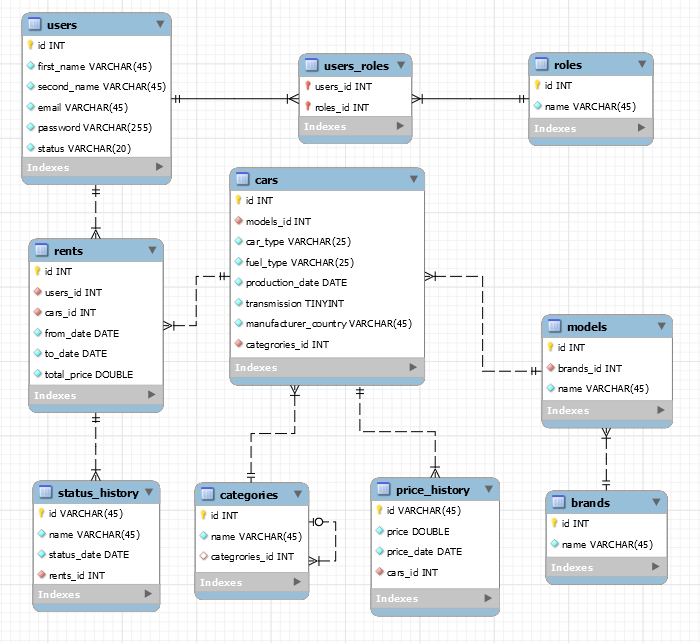
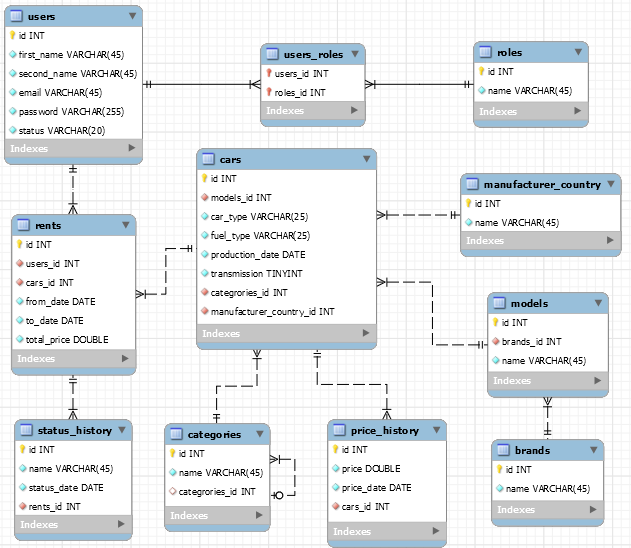
database update again new table

diff --git a/backend/domain/src/main/java/com/velheor/carrental/models/Car.java b/backend/domain/src/main/java/com/velheor/carrental/models/Car.java
@@ -22,21 +22,22 @@ import javax.persistence.OneToMany;
 import javax.persistence.Table;
 
 @NamedEntityGraphs({
-  @NamedEntityGraph(
-      name = "carWithModelAndCategoryAndPriceHistoryAndBrand",
-      attributeNodes = {
-        @NamedAttributeNode(value = "model", subgraph = "modelWithBrand"),
-        @NamedAttributeNode("category"),
-        @NamedAttributeNode("priceHistoryList")
-      },
-      subgraphs = {
-        @NamedSubgraph(
-            name = "modelWithBrand",
-            attributeNodes = {@NamedAttributeNode(value = "brand")})
-      }),
-  @NamedEntityGraph(
-      name = "carWithRents",
-      attributeNodes = {@NamedAttributeNode(value = "rents")})
+    @NamedEntityGraph(
+        name = "carWithModelCategoryPriceHistoryCountryBrand",
+        attributeNodes = {
+            @NamedAttributeNode(value = "model", subgraph = "modelWithBrand"),
+            @NamedAttributeNode("category"),
+            @NamedAttributeNode("priceHistoryList"),
+            @NamedAttributeNode("manufacturerCountry")
+        },
+        subgraphs = {
+            @NamedSubgraph(
+                name = "modelWithBrand",
+                attributeNodes = {@NamedAttributeNode(value = "brand")})
+        }),
+    @NamedEntityGraph(
+        name = "carWithRents",
+        attributeNodes = {@NamedAttributeNode(value = "rents")})
 })
 @Entity
 @Table(name = "cars")
@@ -64,6 +65,10 @@ public class Car implements Serializable {
   private Boolean transmission;
 
   @ManyToOne(fetch = FetchType.LAZY)
+  @JoinColumn(name = "manufacturer_country_id", referencedColumnName = "id", nullable = false)
+  private ManufacturerCountry manufacturerCountry;
+
+  @ManyToOne(fetch = FetchType.LAZY)
   @JoinColumn(name = "models_id", referencedColumnName = "id", nullable = false)
   private Model model;
 
@@ -82,7 +87,8 @@ public class Car implements Serializable {
   @OneToMany(mappedBy = "car")
   private List<Rent> rents;
 
-  public Car() {}
+  public Car() {
+  }
 
   public Integer getId() {
     return id;
@@ -124,6 +130,14 @@ public class Car implements Serializable {
     this.transmission = transmission;
   }
 
+  public ManufacturerCountry getManufacturerCountry() {
+    return manufacturerCountry;
+  }
+
+  public void setManufacturerCountry(ManufacturerCountry manufacturerCountry) {
+    this.manufacturerCountry = manufacturerCountry;
+  }
+
   public Model getModel() {
     return model;
   }
@@ -140,11 +154,12 @@ public class Car implements Serializable {
     this.category = category;
   }
 
-  public List<PriceHistory> getPriceHistories() {
+  public List<PriceHistory> getPriceHistoryList() {
     return priceHistoryList;
   }
 
-  public void setPriceHistories(List<PriceHistory> priceHistoryList) {
+  public void setPriceHistoryList(
+      List<PriceHistory> priceHistoryList) {
     this.priceHistoryList = priceHistoryList;
   }
 
@@ -165,28 +180,22 @@ public class Car implements Serializable {
       return false;
     }
     Car car = (Car) o;
-    return Objects.equals(getId(), car.getId())
-        && Objects.equals(getCarType(), car.getCarType())
-        && getFuelType() == car.getFuelType()
-        && Objects.equals(getProductionDate(), car.getProductionDate())
-        && Objects.equals(getTransmission(), car.getTransmission())
-        && Objects.equals(getModel(), car.getModel())
-        && Objects.equals(getCategory(), car.getCategory())
-        && Objects.equals(priceHistoryList, car.priceHistoryList)
-        && Objects.equals(getRents(), car.getRents());
+    return Objects.equals(getId(), car.getId()) &&
+        Objects.equals(getCarType(), car.getCarType()) &&
+        getFuelType() == car.getFuelType() &&
+        Objects.equals(getProductionDate(), car.getProductionDate()) &&
+        Objects.equals(getTransmission(), car.getTransmission()) &&
+        Objects.equals(getManufacturerCountry(), car.getManufacturerCountry()) &&
+        Objects.equals(getModel(), car.getModel()) &&
+        Objects.equals(getCategory(), car.getCategory()) &&
+        Objects.equals(getPriceHistoryList(), car.getPriceHistoryList()) &&
+        Objects.equals(getRents(), car.getRents());
   }
 
   @Override
   public int hashCode() {
-    return Objects.hash(
-        getId(),
-        getCarType(),
-        getFuelType(),
-        getProductionDate(),
-        getTransmission(),
-        getModel(),
-        getCategory(),
-        priceHistoryList,
-        getRents());
+    return Objects
+        .hash(getId(), getCarType(), getFuelType(), getProductionDate(), getTransmission(),
+            getManufacturerCountry(), getModel(), getCategory(), getPriceHistoryList(), getRents());
   }
 }

diff --git a/backend/domain/src/main/java/com/velheor/carrental/models/ManufacturerCountry.java b/backend/domain/src/main/java/com/velheor/carrental/models/ManufacturerCountry.java
@@ -1,0 +1,68 @@
+package com.velheor.carrental.models;
+
+import java.util.List;
+import java.util.Objects;
+import javax.persistence.Basic;
+import javax.persistence.Column;
+import javax.persistence.Id;
+import javax.persistence.OneToMany;
+
+public class ManufacturerCountry {
+
+  @Id
+  @Column(name = "id", nullable = false)
+  private Integer id;
+
+  @Basic
+  @Column(name = "name", nullable = false, length = 45)
+  private String name;
+
+  @OneToMany(mappedBy = "manufacturer_country_id")
+  private List<Car> cars;
+
+  public ManufacturerCountry() {
+  }
+
+  public Integer getId() {
+    return id;
+  }
+
+  public void setId(Integer id) {
+    this.id = id;
+  }
+
+  public String getName() {
+    return name;
+  }
+
+  public void setName(String name) {
+    this.name = name;
+  }
+
+  public List<Car> getCars() {
+    return cars;
+  }
+
+  public void setCars(List<Car> cars) {
+    this.cars = cars;
+  }
+
+  @Override
+  public boolean equals(Object o) {
+    if (this == o) {
+      return true;
+    }
+    if (!(o instanceof ManufacturerCountry)) {
+      return false;
+    }
+    ManufacturerCountry that = (ManufacturerCountry) o;
+    return Objects.equals(getId(), that.getId()) &&
+        Objects.equals(getName(), that.getName()) &&
+        Objects.equals(getCars(), that.getCars());
+  }
+
+  @Override
+  public int hashCode() {
+    return Objects.hash(getId(), getName(), getCars());
+  }
+}
